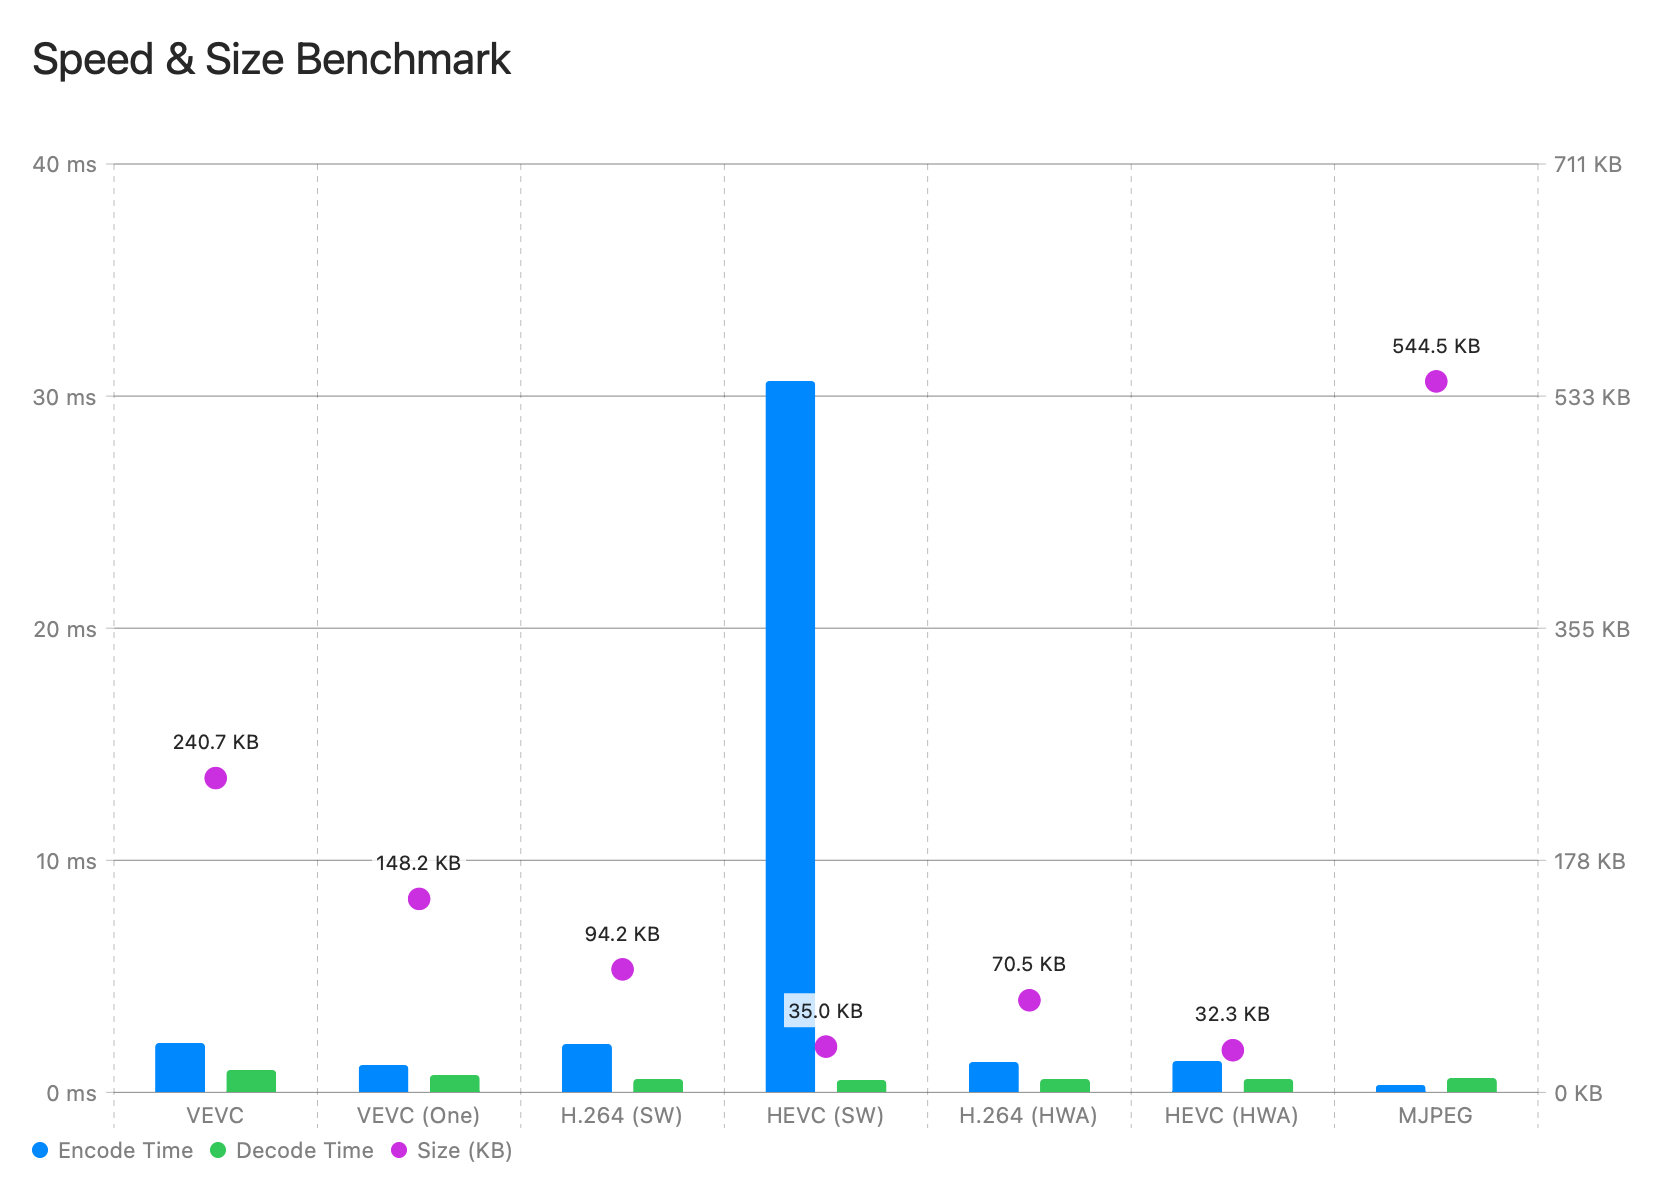
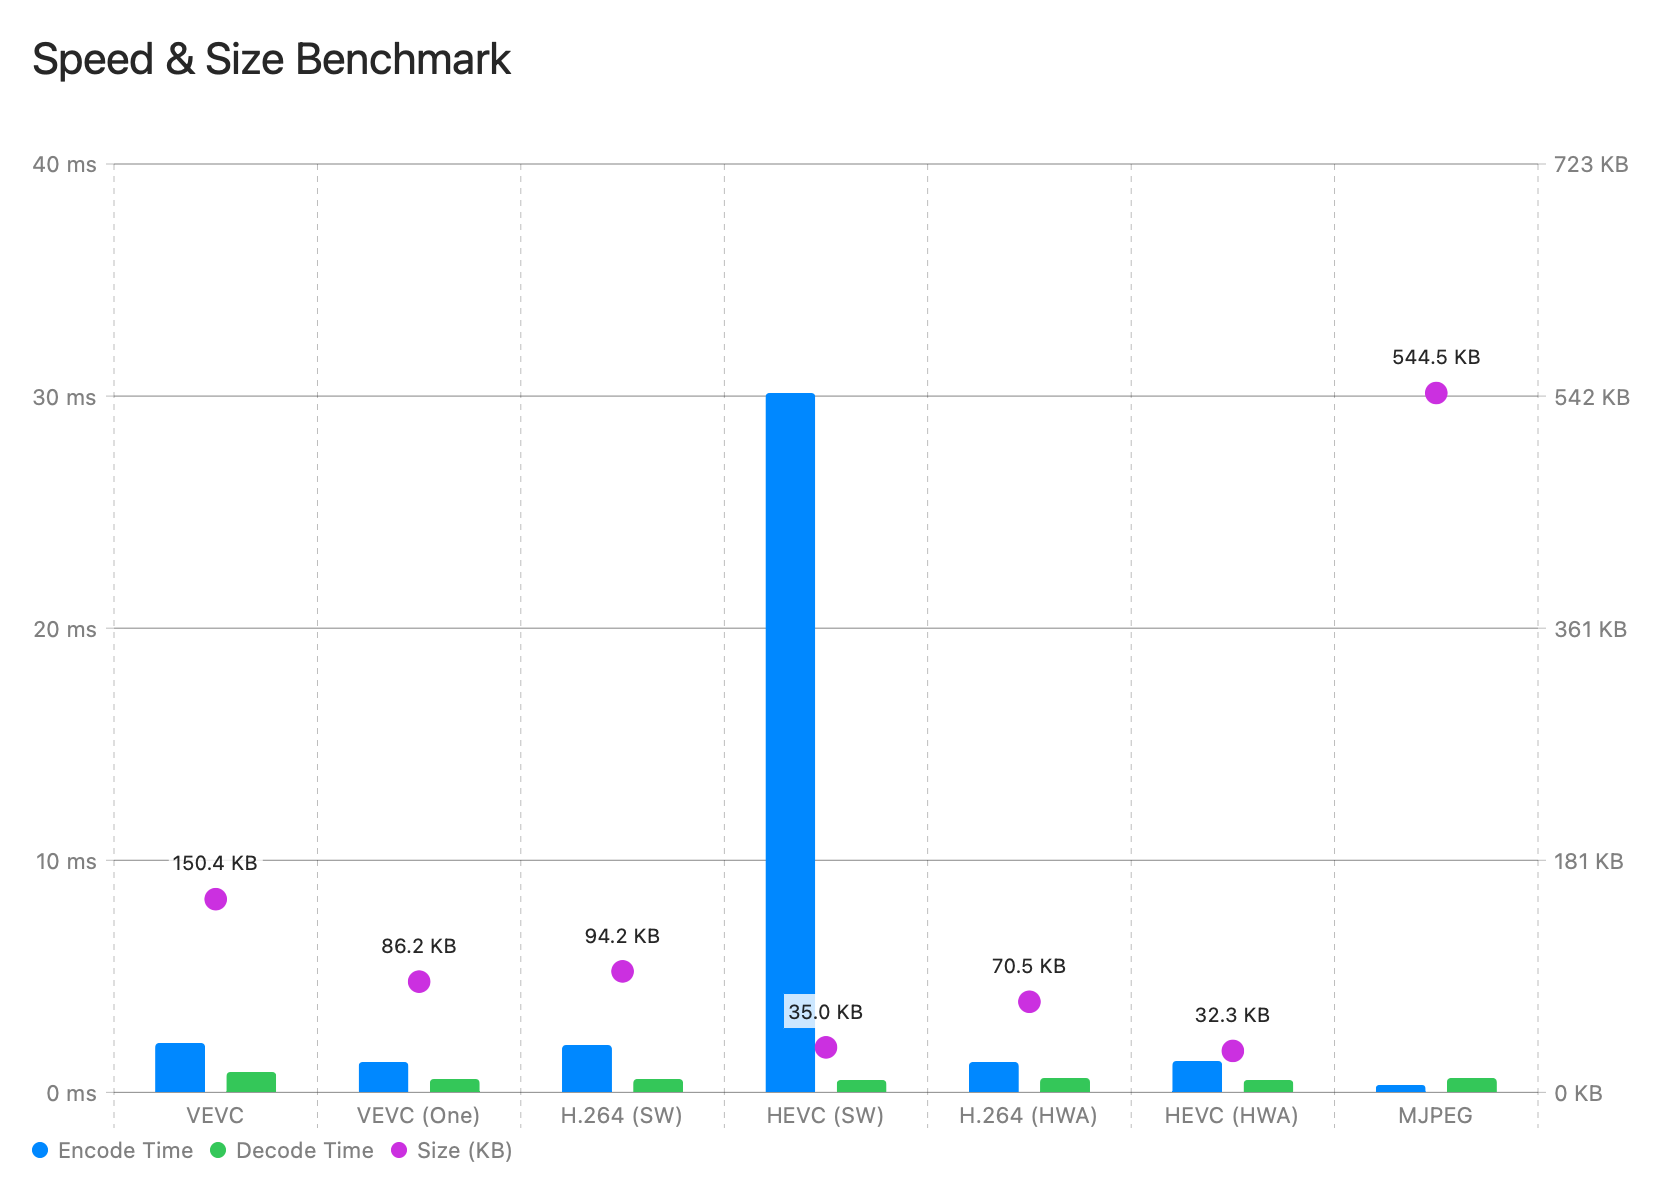
tune data size

diff --git a/Sources/vevc/Encode.swift b/Sources/vevc/Encode.swift
@@ -1630,7 +1630,7 @@ func estimateQuantization(img: YCbCrImage, targetBits: Int) -> QuantizationTable
     let estimatedTotalBits = Double(totalSampleBits) * (Double(totalPixels) / Double(samplePixels))
         
     let ratio = estimatedTotalBits / Double(targetBits)
-    let predictedStep = Double(probeStep) * ratio * 1.5
+    let predictedStep = Double(probeStep) * ratio * 3.5
     let q = Int(max(1, predictedStep))
     
     return QuantizationTable(baseStep: q)
@@ -1755,7 +1755,7 @@ public func encode(images: [YCbCrImage], maxbitrate: Int, zeroThreshold: Int = 3
         
         if forceIFrame {
             let qtY = QuantizationTable(baseStep: max(1, Int(qt.step)))
-            let qtC = QuantizationTable(baseStep: max(1, Int(qt.step) * 2))
+            let qtC = QuantizationTable(baseStep: max(1, Int(qt.step) * 3))
             let (bytes, reconstructed) = try await encodeSpatialLayers(pd: curr, predictedPd: nil, maxbitrate: maxbitrate, qtY: qtY, qtC: qtC, zeroThreshold: zeroThreshold)
             
             out.append(contentsOf: [0x56, 0x45, 0x56, 0x49])
@@ -1777,8 +1777,8 @@ public func encode(images: [YCbCrImage], maxbitrate: Int, zeroThreshold: Int = 3
                 qtC = QuantizationTable(baseStep: max(1, Int(qt.step)))
             } else {
                 // 動きが小さい: 通常のP-Frame量子化
-                qtY = QuantizationTable(baseStep: max(1, Int(qt.step) * 2))
-                qtC = QuantizationTable(baseStep: max(1, Int(qt.step) * 4))
+                qtY = QuantizationTable(baseStep: max(1, Int(qt.step) * 3))
+                qtC = QuantizationTable(baseStep: max(1, Int(qt.step) * 6))
             }
             let (bytes, reconstructedResidual) = try await encodeSpatialLayers(pd: curr, predictedPd: predictedPlane, maxbitrate: maxbitrate, qtY: qtY, qtC: qtC, zeroThreshold: zeroThreshold)
             
@@ -1849,7 +1849,9 @@ public func encode(images: [YCbCrImage], maxbitrate: Int, zeroThreshold: Int = 3
 public func encodeOne(images: [YCbCrImage], maxbitrate: Int, zeroThreshold: Int = 3, gopSize: Int = 15, sceneChangeThreshold: Int = 8) async throws -> [UInt8] {
     if images.isEmpty { return [] }
     
-    let qt = estimateQuantization(img: images[0], targetBits: maxbitrate)
+    // VEVC Oneは単層(Base32)のため、マルチレイヤVEVCより量子化ステップを大きくする
+    let baseQt = estimateQuantization(img: images[0], targetBits: maxbitrate)
+    let qt = QuantizationTable(baseStep: max(1, Int(Double(baseQt.step) * 1.5)))
     var out: [UInt8] = []
     
     var prevReconstructed: PlaneData420? = nil
@@ -1887,8 +1889,8 @@ public func encodeOne(images: [YCbCrImage], maxbitrate: Int, zeroThreshold: Int 
         }
         
         if forceIFrame {
-            let qtY = QuantizationTable(baseStep: max(1, Int(qt.step)))
-            let qtC = QuantizationTable(baseStep: max(1, Int(qt.step) * 2))
+            let qtY = QuantizationTable(baseStep: max(1, Int(qt.step) * 3))
+            let qtC = QuantizationTable(baseStep: max(1, Int(qt.step) * 6))
             
             let (layer0, reconstructed) = try await encodePlaneBase32(pd: curr, predictedPd: nil, layer: 0, qtY: qtY, qtC: qtC, zeroThreshold: zeroThreshold)
             
@@ -1909,11 +1911,11 @@ public func encodeOne(images: [YCbCrImage], maxbitrate: Int, zeroThreshold: Int 
             let qtC: QuantizationTable
             let fineQuantizationThreshold = mbSize * mbSize * 1 // 64x64ブロック内の平均誤差が1以上(4096)
             if meanSAD > 1 || maxBlockSAD > fineQuantizationThreshold {
-                qtY = QuantizationTable(baseStep: max(1, Int(qt.step) / 2))
-                qtC = QuantizationTable(baseStep: max(1, Int(qt.step)))
+                qtY = QuantizationTable(baseStep: max(1, Int(qt.step)))
+                qtC = QuantizationTable(baseStep: max(1, Int(qt.step) * 2))
             } else {
-                qtY = QuantizationTable(baseStep: max(1, Int(qt.step) * 2))
-                qtC = QuantizationTable(baseStep: max(1, Int(qt.step) * 4))
+                qtY = QuantizationTable(baseStep: max(1, Int(qt.step) * 4))
+                qtC = QuantizationTable(baseStep: max(1, Int(qt.step) * 8))
             }
             
             let (layer0, reconstructedResidual) = try await encodePlaneBase32(pd: curr, predictedPd: predictedPlane, layer: 0, qtY: qtY, qtC: qtC, zeroThreshold: zeroThreshold)

diff --git a/Sources/vevc/rANS.swift b/Sources/vevc/rANS.swift
@@ -419,14 +419,21 @@ struct rANSModel {
         if totalTokens == 0 {
             self.tokenFreqs = Array(repeating: RANS_SCALE / 32, count: 32)
         } else {
+            // 未使用トークン数をカウントし、有効トークンへのスケール配分を最大化
+            var zeroCount: UInt32 = 0
+            for i in 0..<32 {
+                if tokenCounts[i] == 0 { zeroCount += 1 }
+            }
+            // 未使用トークンは最小freq=1を割り当て、残りを有効トークンに配分
+            let availableScale = RANS_SCALE - zeroCount
+            
             var sum: UInt32 = 0
             for i in 0..<32 {
                 let count = tokenCounts[i]
                 if count == 0 {
                     self.tokenFreqs[i] = 1
                 } else {
-                    let maxVal = RANS_SCALE - 32
-                    self.tokenFreqs[i] = max(1, UInt32((Int(maxVal) * count) / totalTokens))
+                    self.tokenFreqs[i] = max(1, UInt32((Int(availableScale) * count) / totalTokens))
                 }
                 sum += self.tokenFreqs[i]
             }
